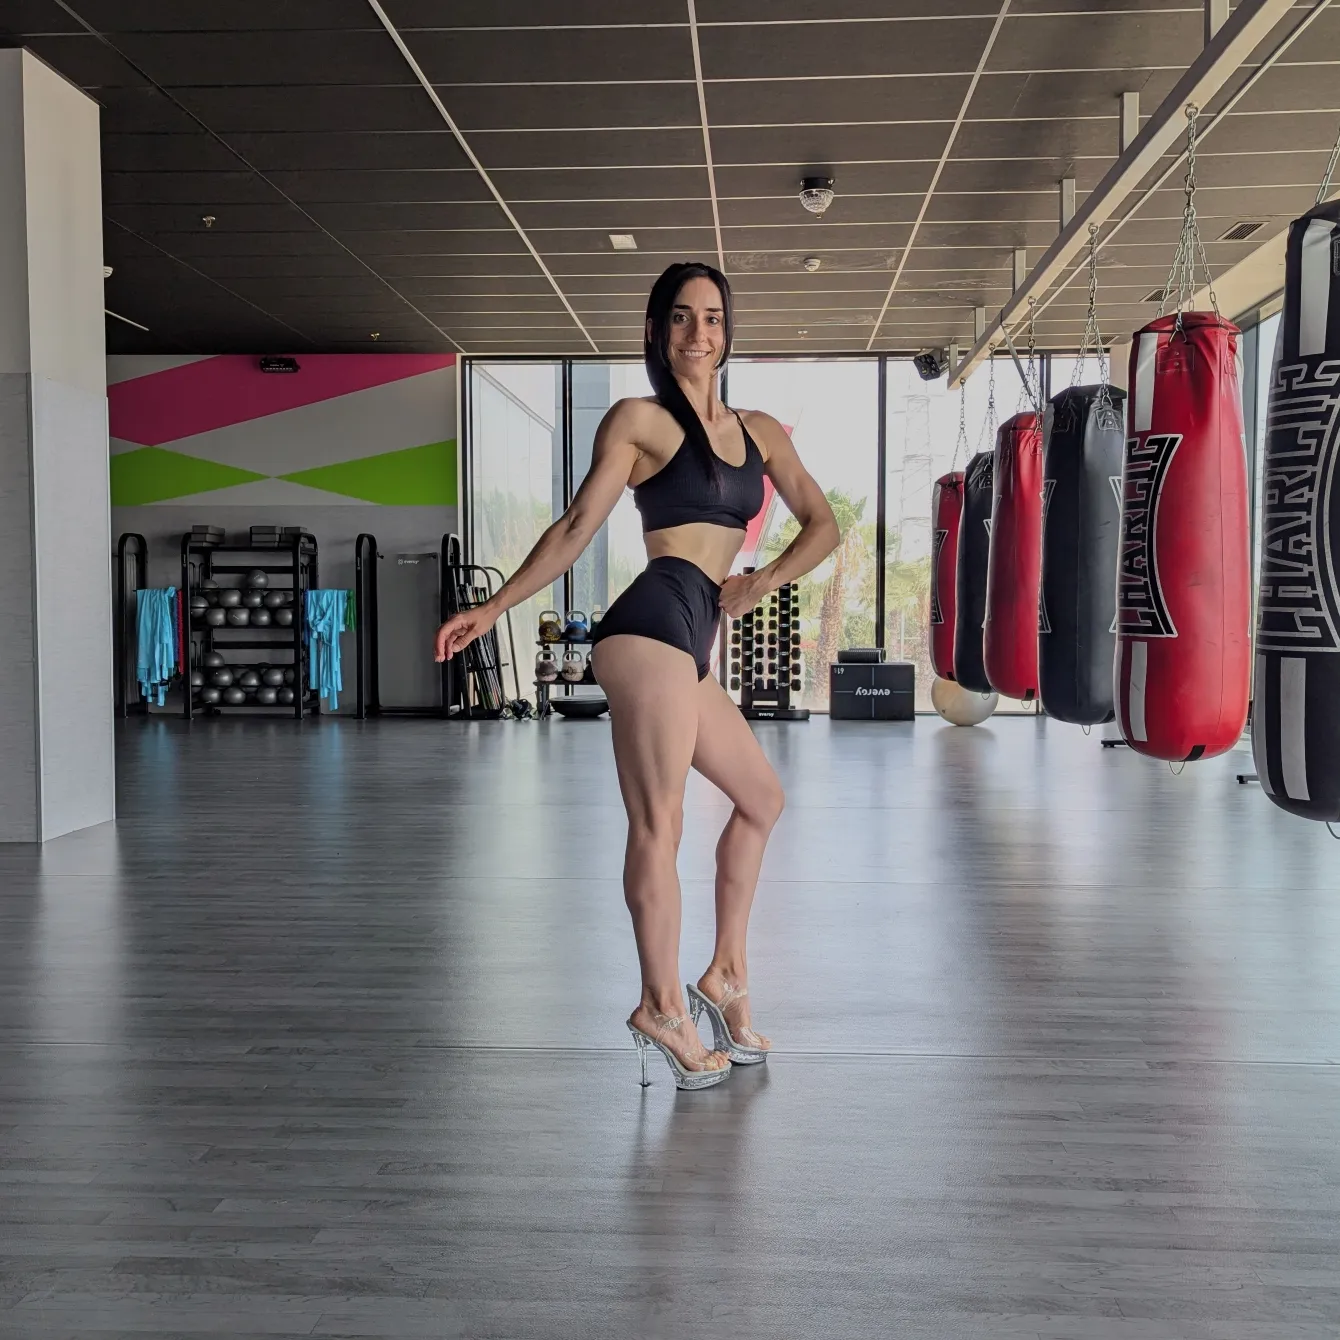
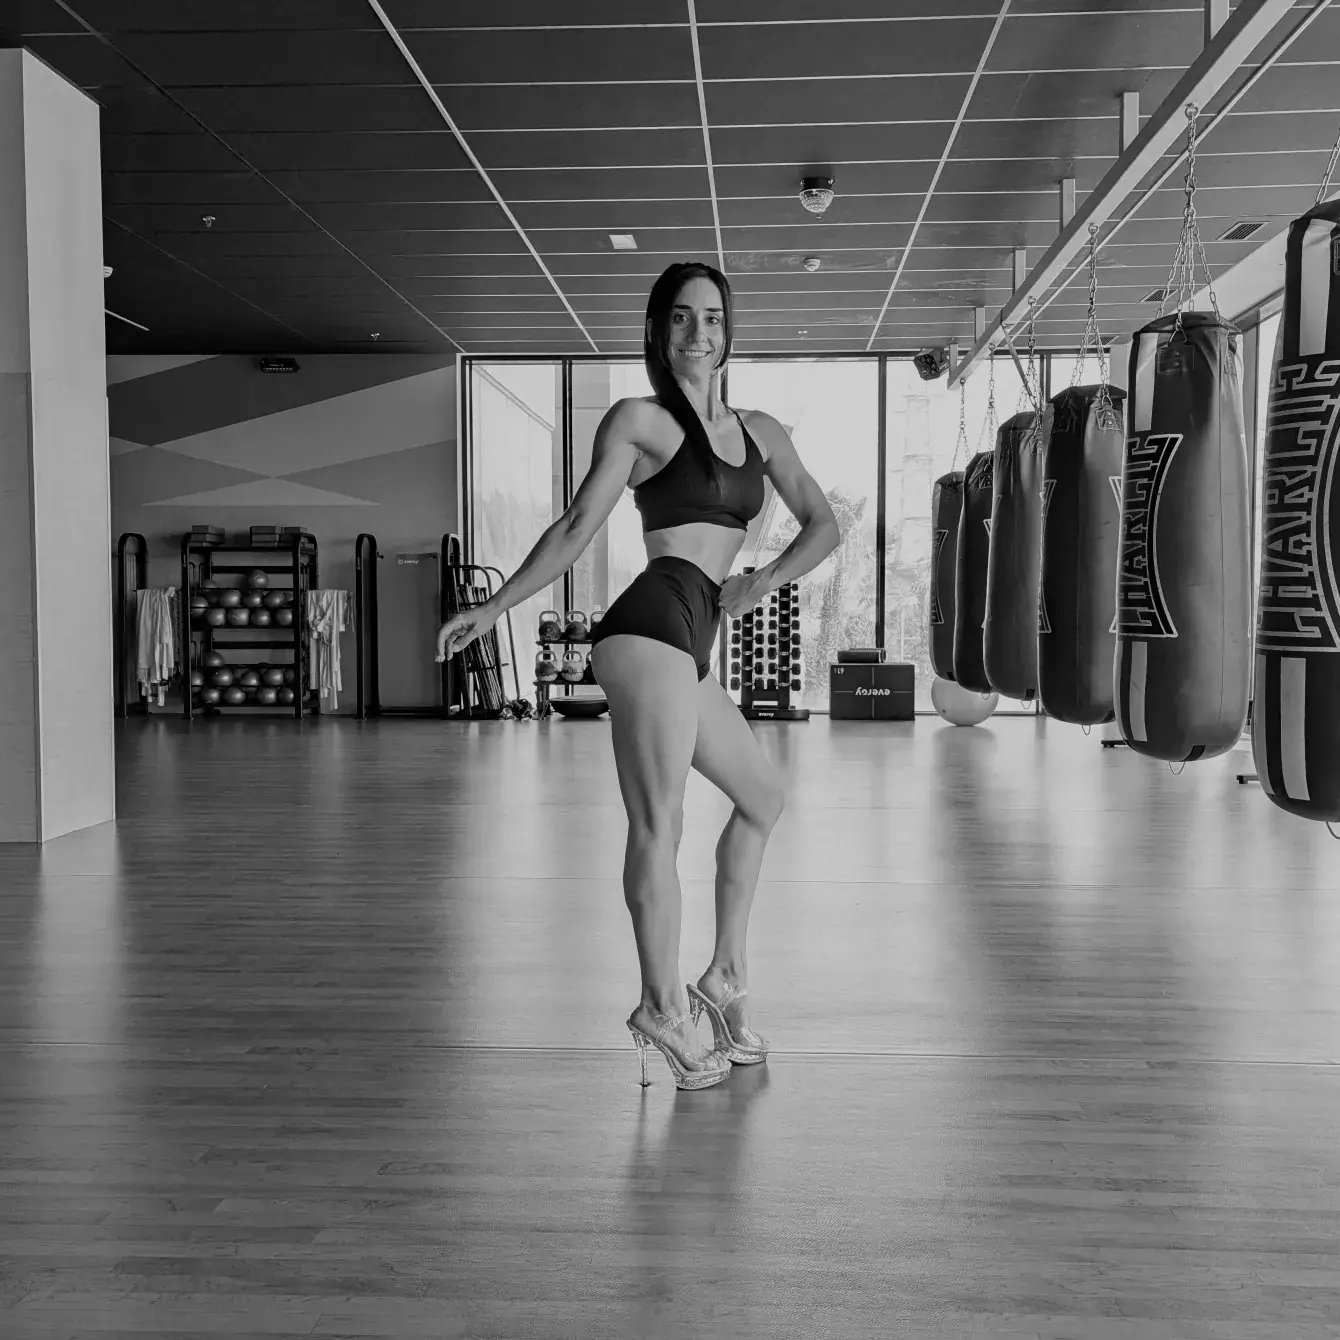
refactor: hero animation improvement

diff --git a/js/main.js b/js/main.js
@@ -59,19 +59,22 @@
   const heroSplit = SplitText.create('.hero__line', { type: 'lines', mask: 'lines' });
   gsap.set(['.hero__title', '.hero__eyebrow', '.hero__bottom'], { visibility: 'visible' });
 
-  if (!reduce) {
-    gsap.timeline({ defaults: { ease: 'expo.out', duration: 1.4 } })
+  if (reduce) {
+    gsap.set('.hero__media', { clipPath: 'none' });
+    gsap.set('.nav > *', { autoAlpha: 1 });
+  } else {
+    gsap.timeline({ defaults: { ease: 'expo.out', duration: 1.2 } })
       .fromTo('.hero__media',
         { clipPath: 'inset(100% 0% 0% 0%)' },
-        { clipPath: 'inset(0% 0% 0% 0%)', duration: 1.6, ease: 'expo.inOut' })
-      .fromTo('.hero__media img', { scale: 1.4 }, { scale: 1.1, duration: 2.2 }, '<')
-      .from('.nav > *', { y: -30, autoAlpha: 0, stagger: 0.08, duration: 1 }, '<0.4')
-      .from(heroSplit.lines, { yPercent: 110, stagger: 0.12 }, '-=1.4')
+        { clipPath: 'inset(0% 0% 0% 0%)', ease: 'expo.out' }, 0)
+      .fromTo('.hero__media img', { scale: 1.3 }, { scale: 1.1, duration: 1.8 }, 0)
+      .from(heroSplit.lines, { yPercent: 110, stagger: 0.08 }, 0)
       .fromTo('.hero__line--flex',
         { '--wdth': 62, '--wght': 900 },
-        { '--wdth': 125, '--wght': 300, duration: 1.8, ease: 'expo.inOut' }, '-=1.2')
-      .from('.hero__eyebrow', { autoAlpha: 0, y: 20, duration: 1 }, '-=1.6')
-      .from('.hero__bottom > *', { autoAlpha: 0, y: 30, stagger: 0.1, duration: 1 }, '-=1.3');
+        { '--wdth': 125, '--wght': 300, duration: 1.4, ease: 'expo.inOut' }, 0.1)
+      .from('.hero__eyebrow', { autoAlpha: 0, y: 20, duration: 0.9 }, 0.05)
+      .from('.hero__bottom > *', { autoAlpha: 0, y: 30, stagger: 0.08, duration: 0.9 }, 0.2)
+      .fromTo('.nav > *', { y: -30, autoAlpha: 0 }, { y: 0, autoAlpha: 1, stagger: 0.06, duration: 0.9 }, 0.1);
 
     gsap.to('.hero__media img', {
       yPercent: 5,

diff --git a/index.html b/index.html
@@ -24,6 +24,14 @@
 
     <link rel="icon" href="assets/logo.svg" type="image/svg+xml" />
 
+    <link
+      rel="preload"
+      as="image"
+      href="assets/img/mar-hero.webp"
+      imagesrcset="assets/img/mar-hero-800.webp 800w, assets/img/mar-hero.webp 1340w"
+      imagesizes="(max-width: 900px) 100vh, 74vh"
+      fetchpriority="high"
+    />
     <link rel="preconnect" href="https://fonts.googleapis.com" />
     <link rel="preconnect" href="https://fonts.gstatic.com" crossorigin />
     <link
@@ -77,6 +85,8 @@
         <div class="hero__media">
           <img
             src="assets/img/mar-hero.webp"
+            srcset="assets/img/mar-hero-800.webp 800w, assets/img/mar-hero.webp 1340w"
+            sizes="(max-width: 900px) 100vh, 74vh"
             alt="Mar, entrenadora personal, posando en el gimnasio"
             width="1340"
             height="1340"

diff --git a/css/styles.css b/css/styles.css
@@ -748,6 +748,8 @@ button:disabled, button:disabled * { cursor: default; }
 .js .hero__title,
 .js .hero__eyebrow,
 .js .hero__bottom { visibility: hidden; }
+.js .hero__media { clip-path: inset(100% 0% 0% 0%); }
+.js .nav > * { opacity: 0; }
 
 @media (prefers-reduced-motion: reduce) {
   *, *::before, *::after {
